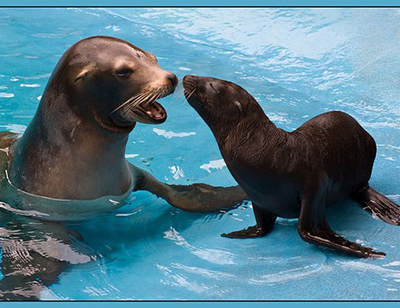
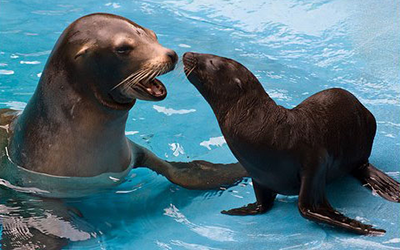
More image updates

diff --git a/_posts/events/2016-09-07-shrink-rap.md b/_posts/events/2016-09-07-shrink-rap.md
@@ -11,8 +11,8 @@ tags: [ workshop , therapy, peer-support, discussion ]
 comments: true
 ads: false
 image:
-  teaser: therapy.jpg
-  feature: therapy.jpg
+  teaser: therapshrink-wrap-therapy-400x250.png
+  feature: therapshrink-wrap-therapy-1600x800.png
   credit: Nadya Gomez
   creditlink: 
 event-date: "Wednesday, September 7th 2016"

diff --git a/_posts/resources/2016-07-06-first-resort-resources.md b/_posts/resources/2016-07-06-first-resort-resources.md
@@ -9,8 +9,8 @@ tags: [Activism , advanced directives, education, publication]
 comments: true
 ads: false
 image:
-  teaser: 2016-07-intro.jpg
-  feature: 
+  teaser: first-resort-resources-400x250.png
+  feature: first-resort-resources-1600x800.png
   credit: kevix
   creditlink: http://kevix.org
 location: "The Internet"

diff --git a/_posts/events/2016-07-06-first-resort.md b/_posts/events/2016-07-06-first-resort.md
@@ -11,8 +11,8 @@ tags: [ workshop , social , peer-support, mutual-aid ]
 comments: true
 ads: false
 image:
-  teaser: viralvid.jpg
-  feature: viralvid.jpg
+  teaser: crowdsource-firstresort-400x250.png
+  feature: crowdsource-firstresort-1600x800.png
   credit: 
   creditlink: 
 event-date: "Wednesday, July 6st 2016"

diff --git a/_posts/events/2016-08-03-dont-change.md b/_posts/events/2016-08-03-dont-change.md
@@ -11,8 +11,8 @@ tags: [ workshop , social , peer-support, mutual-aid ]
 comments: true
 ads: false
 image:
-  teaser: poster_toetag_small.jpg
-  feature:
+  teaser: Dont-change-the-Subject-400x250.png
+  feature: Dont-change-the-Subject-1600x800.png
   credit: 
   creditlink: 
 event-date: "Wednesday, August 3rd 2016"

diff --git a/_posts/events/2016-05-04-open-mad-night.md b/_posts/events/2016-05-04-open-mad-night.md
@@ -11,8 +11,8 @@ tags: [ workshop , social , peer-support, art ]
 comments: true
 ads: false
 image:
-  teaser: mad-seal.jpg
-  feature: mad-seal.jpg
+  teaser: mad-seal-400x250.png
+  feature: mad-seal-1600x800.png
   credit: 
   creditlink: 
 event-date: "Wednesday, May 4th 2016"
